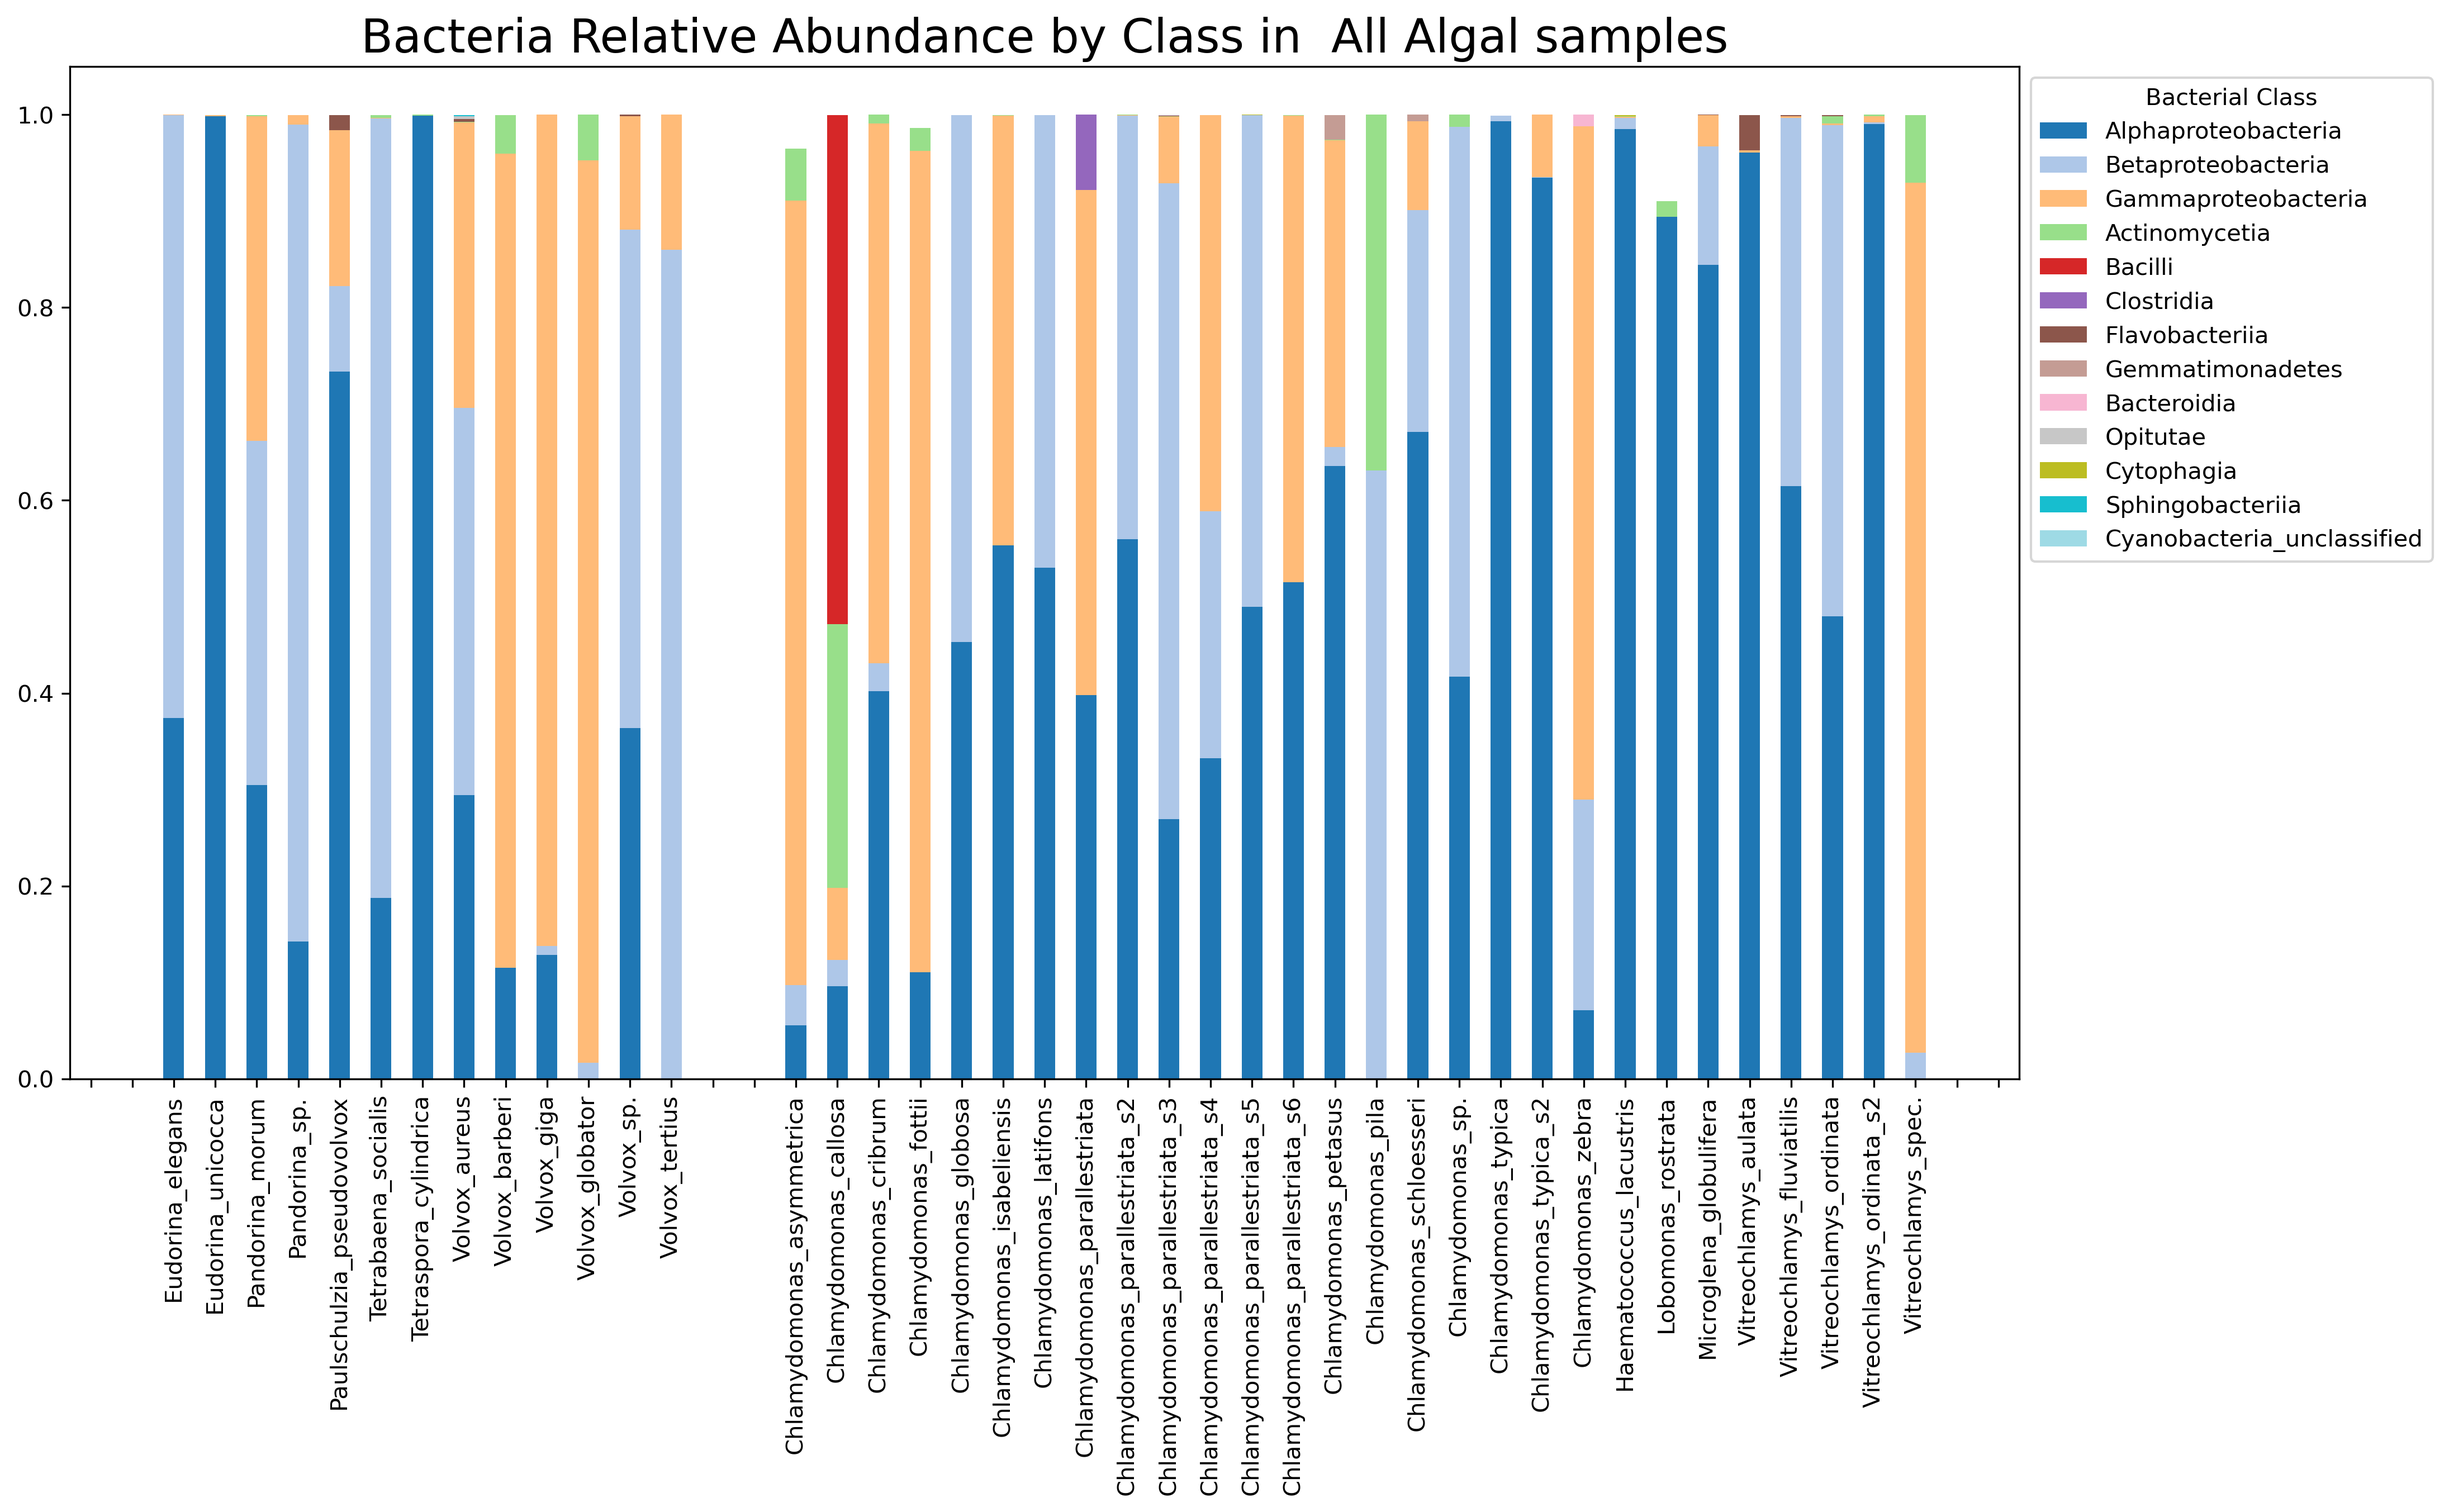
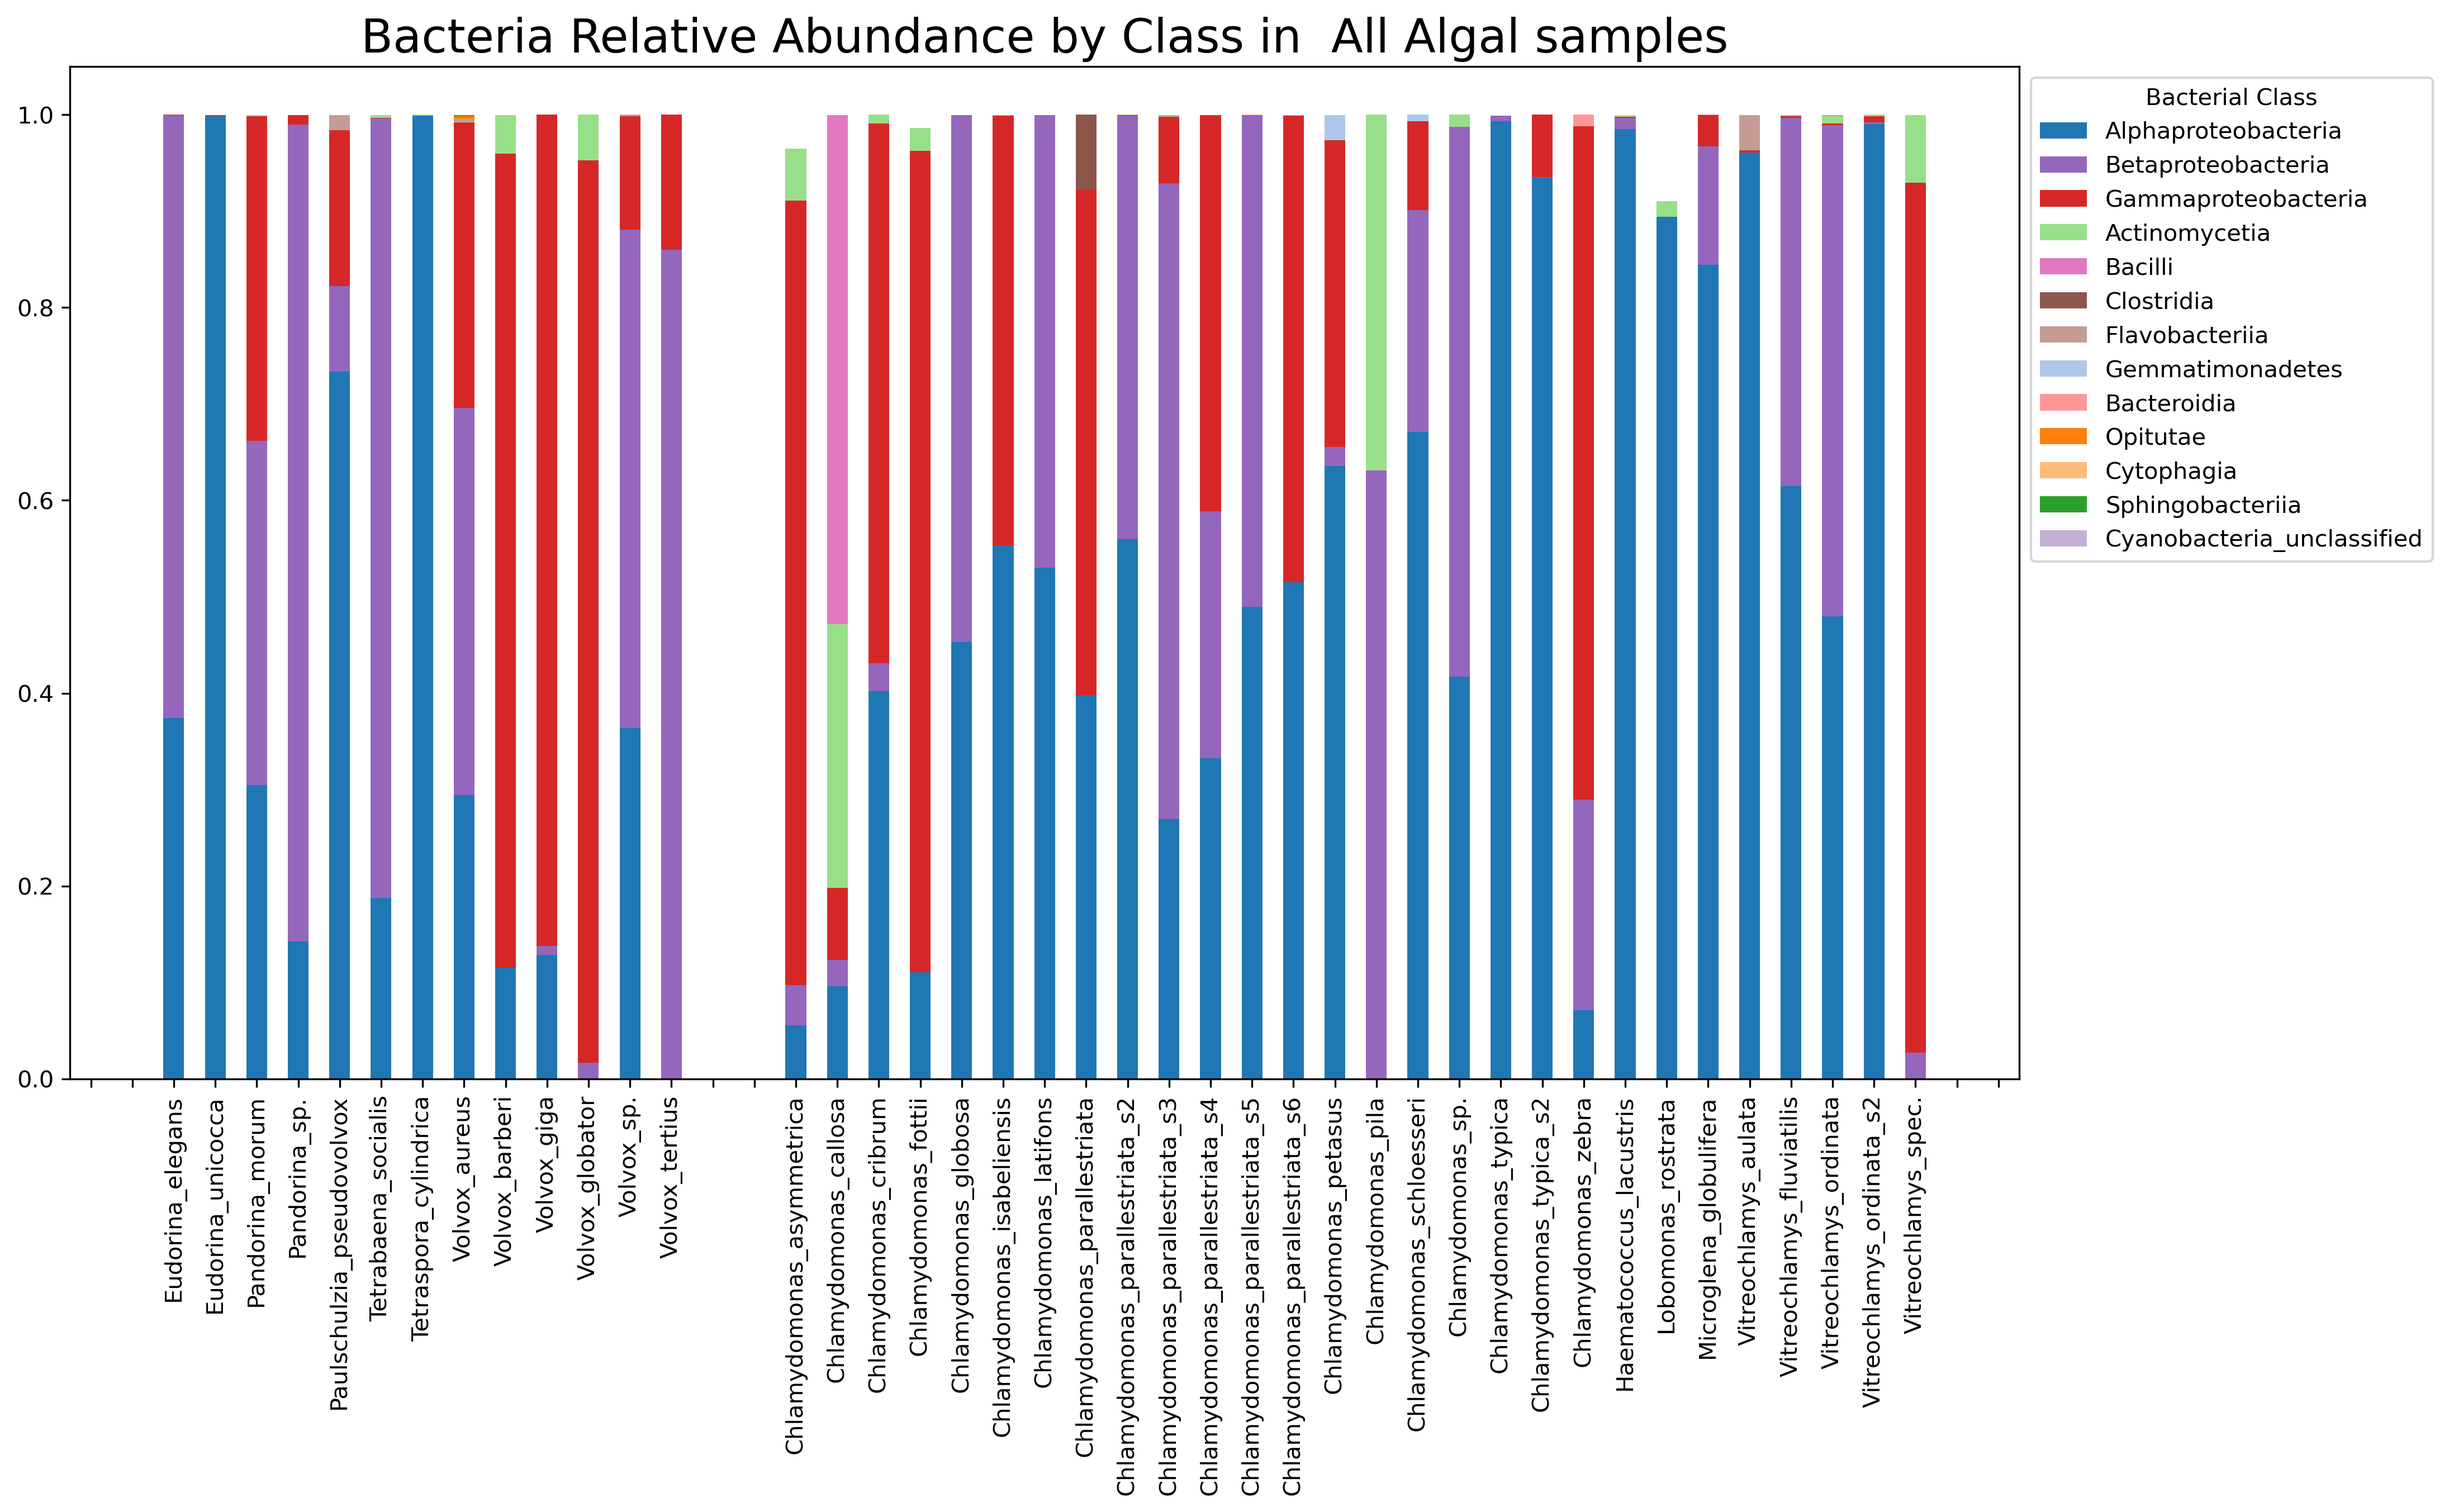
Updating codes for uniform colors

Changed region(s): [[0.3104, 0.0621, 0.6518, 0.714], [0.0621, 0.0621, 0.2793, 0.714], [0.6828, 0.0621, 0.869, 0.714]]

diff --git a/algal_bacteria_metagen_analysis/analysing_overlap/analyze_mapping.py b/algal_bacteria_metagen_analysis/analysing_overlap/analyze_mapping.py
@@ -75,12 +75,21 @@ for bac in bacDetInAlgSamps.index:
         if bacDetInAlgSamps.loc[bac,alg] > 0:
             bacDetInAlgSamps.loc[bac,alg]=1
 
+# Assuming bacRAinAlgSamps is your DataFrame
+uniqueClasses = set(bacRAinAlgSamps['Class'].str.replace('c__',''))
+# Generate colors using cm.tab20 
+colorPalette = cm.tab20.colors # This gives us a list of 20 colors
+ # Map each class to a color
+colorMap = {class_name: colorPalette[i % len(colorPalette)] for i, class_name in enumerate(uniqueClasses)}
+ 
 #Data without Chlamydomonas_callosa.
 bacRAinAlgSampsWoCall = bacRAinAlgSamps.drop(columns=['Chlamydomonas_callosa'])
 bacDetinAlgSampsWoCall = bacDetInAlgSamps.drop(columns=['Chlamydomonas_callosa'])
 algaCellPhenWoCall = algaCellPhen[algaCellPhen['Species']!='Chlamydomonas_callosa']
 uniCellAlgWoCall = uniCellAlg.copy()
 uniCellAlgWoCall.remove('Chlamydomonas_callosa')
+
+
 
 
 # =============================================================================
@@ -97,7 +106,7 @@ uniCellAlgWoCall.remove('Chlamydomonas_callosa')
         1- Legend object for the figure which is also saved as png file in the same directory.
         2- A dataframe of the aggregated RA Table.
 '''
-def produce_stacked_chart(mappingMatrix,aggTaxLevel,algaCellPhen,figType,outDir,logScale =None,phylum=None):
+def produce_stacked_chart(mappingMatrix,aggTaxLevel,algaCellPhen,figType,outDir,colorMap,logScale =None,phylum=None):
     
     #If only one bacterial phylum is requested to be checked.
     if phylum:
@@ -123,10 +132,11 @@ def produce_stacked_chart(mappingMatrix,aggTaxLevel,algaCellPhen,figType,outDir,
     #Remove unwanted character from bacterial species taxa.
     aggrgatedT.columns=aggrgatedT.columns.str.replace(r'.__','',regex=True)
     
+    colors = [colorMap.get(className, "#333333") for className in aggrgatedT.columns]
     #Stacked par plot of bacterial RAs for each specified algal species.
     if figType !='All':
         figure,ax = plt.subplots(figsize=(15,8))
-        figure = aggrgatedT.plot.bar(stacked=True,ax=ax,rot = 90,colormap=cm.tab20,logy=logScale,fontsize=20).legend(bbox_to_anchor=(1.0,1.0))
+        figure = aggrgatedT.plot.bar(stacked=True,ax=ax,rot = 90,color=colors,logy=logScale,fontsize=20).legend(bbox_to_anchor=(1.0,1.0))
         figure.set_title('Bacterial '+ aggTaxLevel)
         plt.title(figType+' Specific Bacteria Relative Abundance by '+ aggTaxLevel + ' in ' + figType +' Algal Samples',fontsize=20)
         plt.savefig(outDir+figType +'by_algae_bac_by_'+aggTaxLevel+'.png', format='png', dpi=300, bbox_inches='tight')
@@ -145,7 +155,7 @@ def produce_stacked_chart(mappingMatrix,aggTaxLevel,algaCellPhen,figType,outDir,
         finalDF=pd.concat([finalDF,emptyDF])
         
         figure,ax = plt.subplots(figsize=(15,8))
-        figure = finalDF.plot.bar(stacked=True,ax=ax,rot = 90,colormap=cm.tab20,logy=logScale).legend(bbox_to_anchor=(1.0,1.0))
+        figure = finalDF.plot.bar(stacked=True,ax=ax,rot = 90,color=colors,logy=logScale).legend(bbox_to_anchor=(1.0,1.0))
         figure.set_title('Bacterial '+ aggTaxLevel)
         plt.title('Bacteria Relative Abundance by '+ aggTaxLevel + ' in  '+ figType +' Algal samples',fontsize=20)
         plt.savefig(outDir+figType+'_'+aggTaxLevel+'.png', format='png', dpi=300, bbox_inches='tight')
@@ -155,7 +165,7 @@ def produce_stacked_chart(mappingMatrix,aggTaxLevel,algaCellPhen,figType,outDir,
 # =============================================================================
 # Function produce_pie_chart
 # =============================================================================
-def produce_pie_chart(mappingMatrix,aggTaxLevel,algaCellPhen,outDir,phylum=None):
+def produce_pie_chart(mappingMatrix,aggTaxLevel,algaCellPhen,outDir,colorMap,phylum=None):
     #If only one phylum is requested to be checked.
     if phylum:
         #Aggregaring RA over the specified tax level.
@@ -173,12 +183,15 @@ def produce_pie_chart(mappingMatrix,aggTaxLevel,algaCellPhen,outDir,phylum=None)
     aggrgatedT = aggrgated.set_index(aggTaxLevel).transpose()
     
     aggrgatedT.columns=aggrgatedT.columns.str.replace(r'.__','',regex=True)
+    
     #Totals of bacteria RA in each taxonimc group as per the taxa level in the specified algal species.
     totalBac=aggrgatedT.sum()
     
+    colors = [colorMap.get(className, "#333333") for className in totalBac.index] # Default to grey if not found
+    
     #Pi chart showing RA of bacteria over all specified species.
     plt.figure()
-    piChart= totalBac.plot.pie(colormap=cm.tab20,labels=['']*len(totalBac),autopct='%1.1f%%')
+    piChart= totalBac.plot.pie(color=colors,labels=['']*len(totalBac),autopct='%1.1f%%')
     plt.legend(totalBac.index,bbox_to_anchor=(1.0,1.0),title='Bacterial '+aggTaxLevel)
     plt.title('Bacteria Overall Relative Abundance by '+ aggTaxLevel + ' in '  +' Algal Samples')
     plt.savefig(outDir+'overall_bac_by_'+aggTaxLevel+'.png', format='png', dpi=300, bbox_inches='tight')
@@ -227,21 +240,22 @@ def perform_pca(matrix,aggTaxLevel,uniCellAlg,multiCellAlg,outDir):
     plt.savefig(outDir+'PCA_BY_'+aggTaxLevel+'.png', format='png', dpi=300, bbox_inches='tight')
     explained_variance = pca.explained_variance_ratio_
     return explained_variance
-
+#%%
 # =============================================================================
 # Generating Figures.
 # =============================================================================
-#Bacterial classes RA for every algal sample.
-bacRAbyClassFig = produce_stacked_chart(bacRAinAlgSamps, 'Class', algaCellPhen, 'All',outDir=outDir,logScale=False)
-
 #Bacterial classes RA for overall samples.
-bacteriaRAPiChart=produce_pie_chart(bacRAinAlgSamps,'Class',algaCellPhen,outDir=outDir,phylum=None)
+bacteriaRAPiChart=produce_pie_chart(bacRAinAlgSamps,'Class',algaCellPhen,outDir=outDir,colorMap=colorMap,phylum=None)
+
+#Bacterial classes RA for every algal sample.
+bacRAbyClassFig = produce_stacked_chart(bacRAinAlgSamps, 'Class', algaCellPhen, 'All',outDir=outDir,colorMap=colorMap,logScale=False)
+
 
 #Bacterial classes RA for multicellular specific bacteria.
-multiSpBacFig = produce_stacked_chart(multiSpecificBac,'Class',algaCellPhen[algaCellPhen['Phenotype']=='Multi'],'Multicellular',outDir=outDir,logScale=True)
+multiSpBacFig = produce_stacked_chart(multiSpecificBac,'Class',algaCellPhen[algaCellPhen['Phenotype']=='Multi'],'Multicellular',outDir=outDir,colorMap=colorMap,logScale=True)
 
 #Bacterial classes RA for unicellular specific bacteria.
-uniSpecificBacFig = produce_stacked_chart(uniSpecificBac,'Class',algaCellPhen[algaCellPhen['Phenotype']=='Uni'],'Unicellular',outDir=outDir,logScale=True)
+uniSpecificBacFig = produce_stacked_chart(uniSpecificBac,'Class',algaCellPhen[algaCellPhen['Phenotype']=='Uni'],'Unicellular',outDir=outDir,colorMap=colorMap,logScale=True)
 
 #PCA by species for ORA.
 varRASpecies = perform_pca(bacRAinAlgSamps, 'Species', uniCellAlg, multiCellAlg,outDir=outDir)
